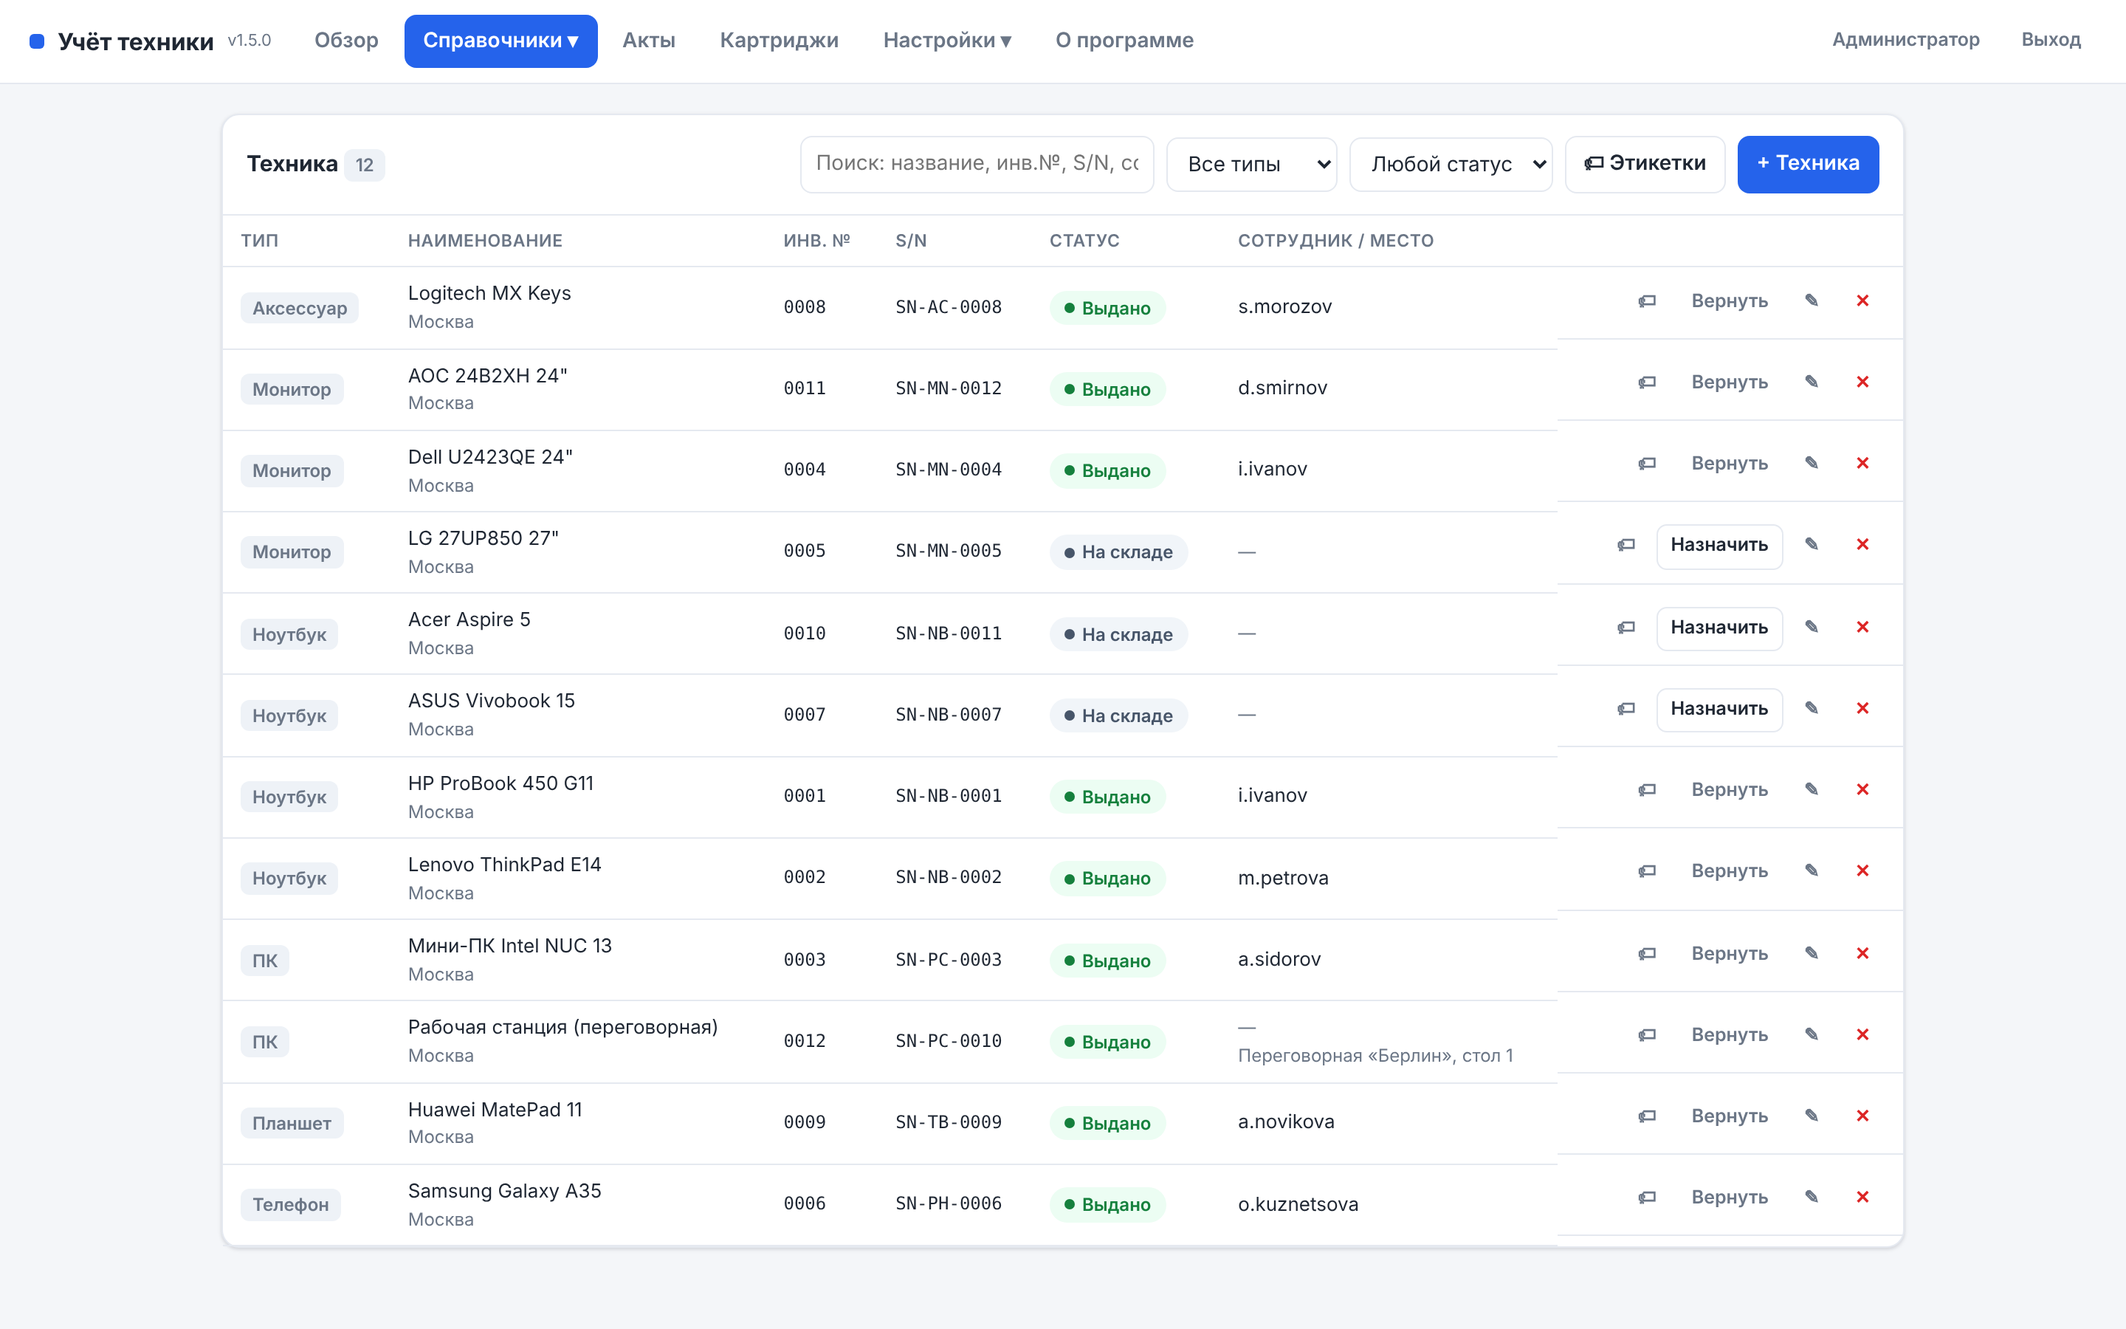
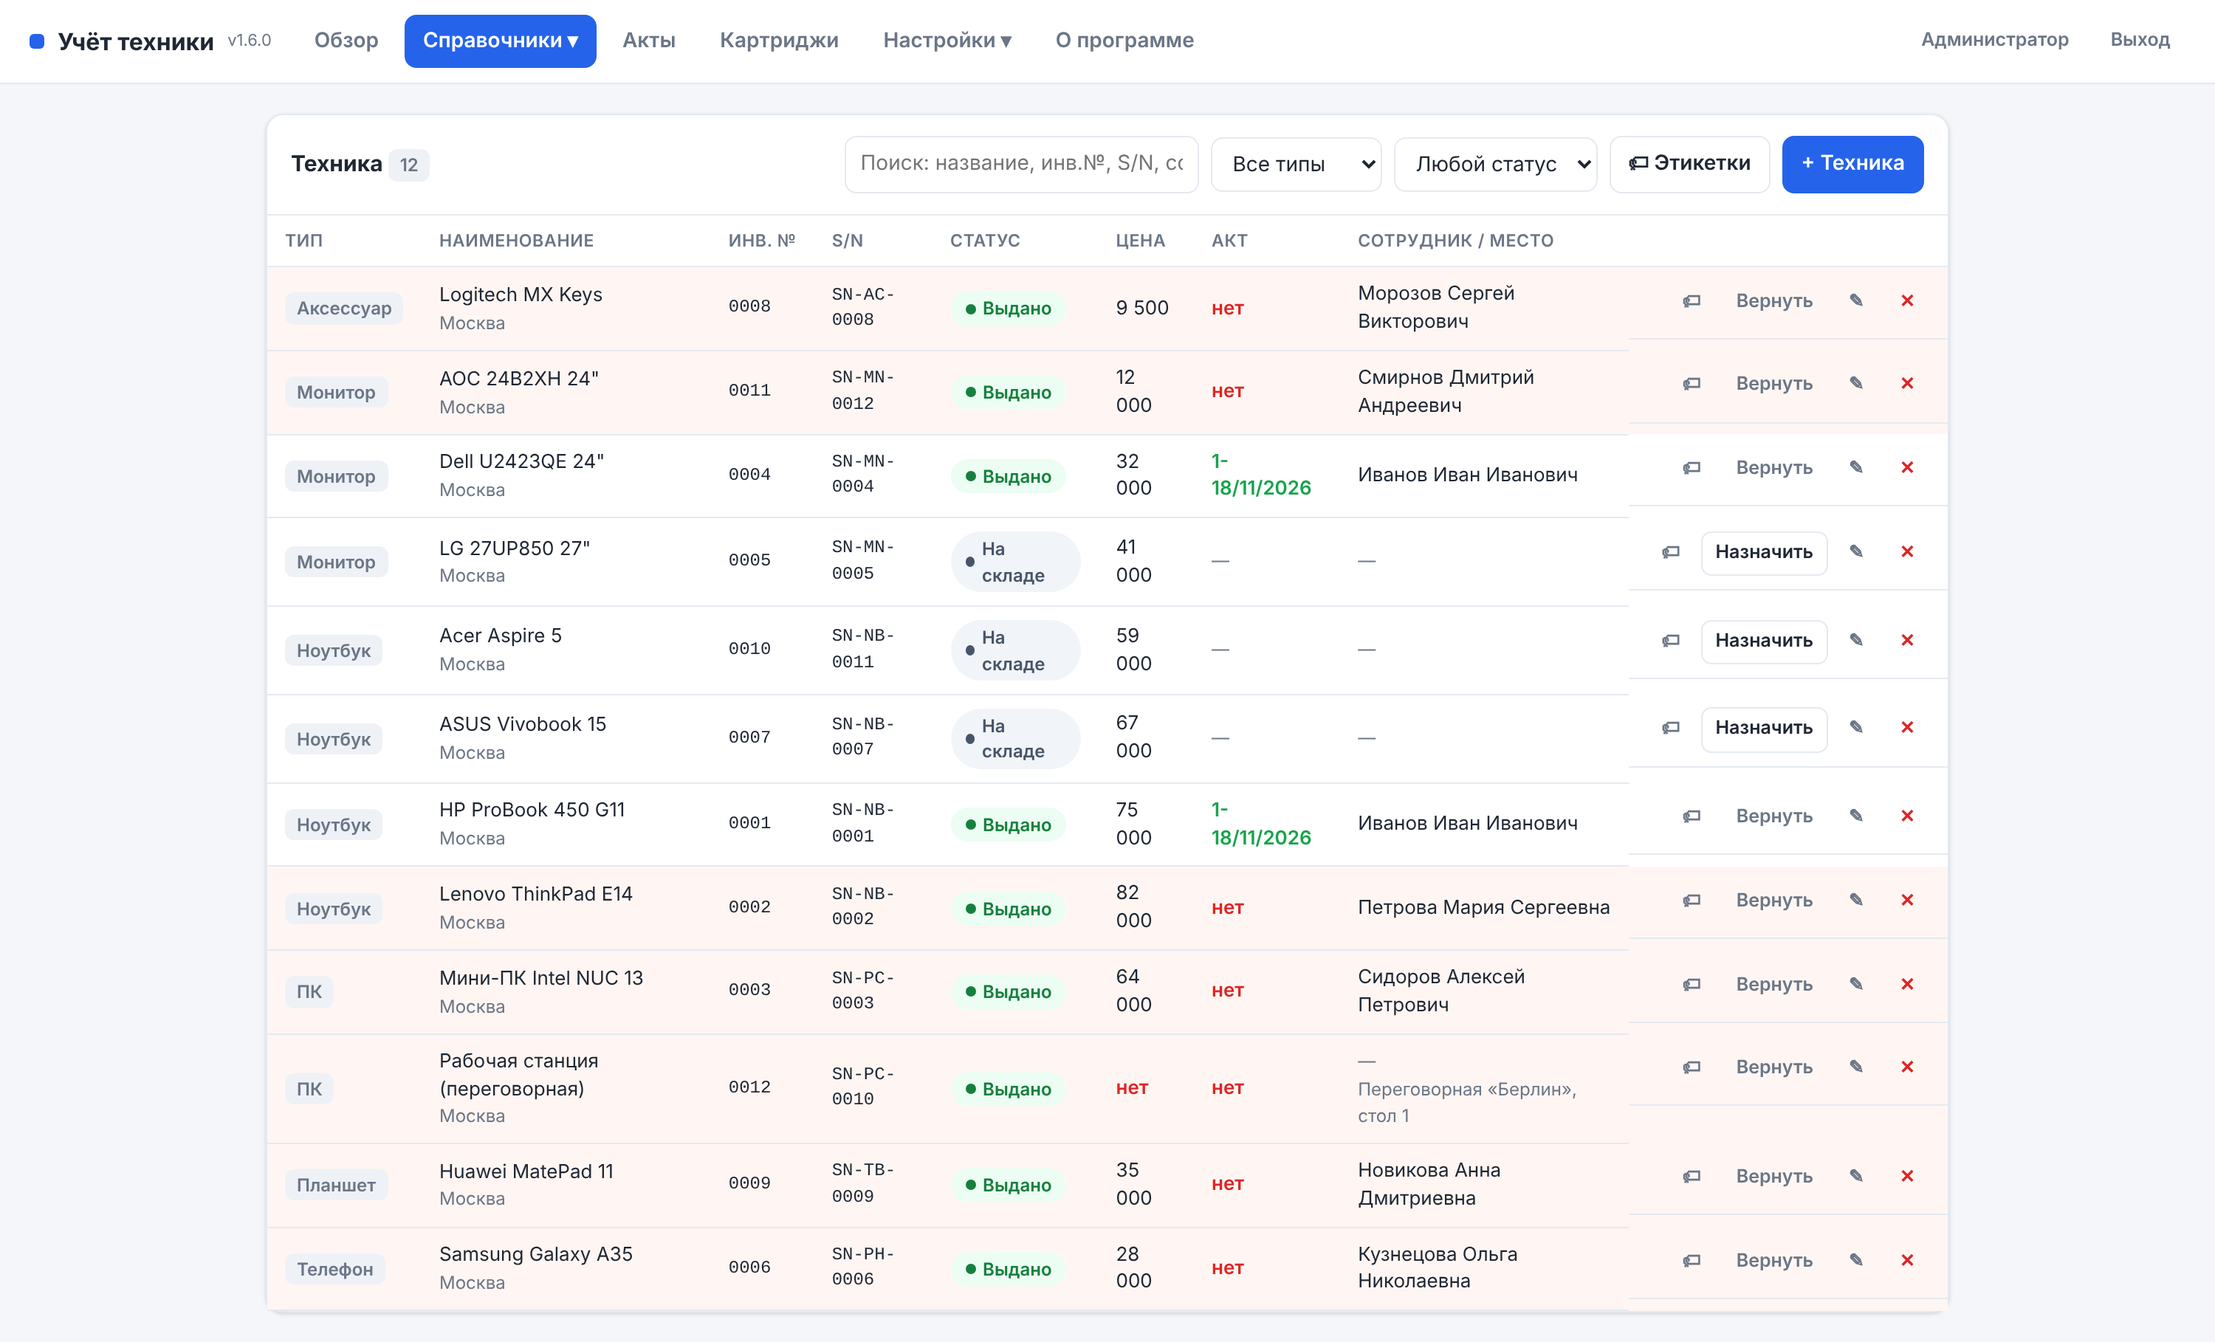
v1.6.0: цена и акт в списке техники, дата и номер акта
- в списке техники колонки «Цена» и «Акт» с красной подсветкой при отсутствии
  (строка подсвечивается, если нет цены или нет акта выдачи у выданной техники);
- связь акта с техникой по id позиции (для отметки «есть акт»);
- при создании акта выбирается дата (в т.ч. при выдаче с актом);
- номер акта в формате X-дд/мм/гггг (в списке, печати и .docx);
- демо-seed: исправлена привязка техники к сотрудникам (ФИО вместо логина);
- обновлены скриншоты в README.

Claude-Session: https://claude.ai/code/session_01253SzRbU9LchamaQdn1pgm

diff --git a/app/static/index.html b/app/static/index.html
@@ -397,20 +397,27 @@ function viewEquip(){
       </div>
     </div>
     <div class="tbl-scroll"><table>
-      <thead><tr><th>Тип</th><th>Наименование</th><th>Инв. №</th><th class="hide-sm">S/N</th><th>Статус</th><th>Сотрудник / место</th><th></th></tr></thead>
-      <tbody>${list.map(rowEquip).join('')||'<tr><td colspan="7" class="empty">Ничего не найдено</td></tr>'}</tbody>
+      <thead><tr><th>Тип</th><th>Наименование</th><th>Инв. №</th><th class="hide-sm">S/N</th><th>Статус</th><th>Цена</th><th>Акт</th><th>Сотрудник / место</th><th></th></tr></thead>
+      <tbody>${list.map(rowEquip).join('')||'<tr><td colspan="9" class="empty">Ничего не найдено</td></tr>'}</tbody>
     </table></div>
   </div>`;
 }
 function rowEquip(e){
   const holder=holderLabel(e);
   const wp=(e.assignType!=='workplace'&&e.workplace)?`<div class="sub">${esc(e.workplace)}</div>`:'';
-  return `<tr>
+  const noCost=!e.cost, needAct=(e.status==='issued'&&!e.hasAct);
+  const priceCell=e.cost?esc(e.cost):'<span style="color:var(--red);font-weight:600">нет</span>';
+  const actCell=e.hasAct
+    ?`<span style="color:var(--ok);font-weight:600">${esc(e.actLabel)||'✓'}</span>`
+    :(e.status==='issued'?'<span style="color:var(--red);font-weight:600">нет</span>':'<span class="sub">—</span>');
+  return `<tr${(noCost||needAct)?' style="background:#fff6f3"':''}>
     <td><span class="tag">${esc(e.type)}</span></td>
     <td>${esc(e.name)}${e.innerName?`<div class="sub">${esc(e.innerName)}</div>`:''}${e.location?`<div class="sub">${esc(e.location)}</div>`:''}</td>
     <td class="mono">${esc(e.invno)||'—'}</td>
     <td class="mono hide-sm">${esc(e.serial)||'—'}</td>
     <td><span class="badge ${STATUS_CLS[e.status]}">${STATUS[e.status]}</span></td>
+    <td>${priceCell}</td>
+    <td>${actCell}</td>
     <td>${holder?esc(holder):'<span class="sub">—</span>'}${wp}</td>
     <td class="row-actions">
       <button class="btn sm ghost" data-act="label" data-id="${e.id}" title="Этикетка 15×50">🏷</button>
@@ -470,7 +477,7 @@ function viewActs(){
       <tbody>${list.map(a=>{
         const e=empById(a.empId);
         return `<tr>
-          <td><b>№ ${esc(a.no)}</b></td>
+          <td><b>№ ${esc(actNumber(a))}</b></td>
           <td>${esc(a.date)}</td>
           <td>${a.kind==='return'?'<span class="badge b-stock">Возврат</span>':'<span class="badge b-issued">Выдача</span>'}</td>
           <td>${esc(e?e.fullName:(a.empName||'—'))}</td>
@@ -1056,6 +1063,7 @@ function assignModal(id){
           <select id="i-emp" size="6" style="height:auto">${empOptionsHTML(e.empId,'')}</select></div>
         <div class="field"><label>Рабочее место (необязательно)</label><input id="i-wp" value="${esc(e.workplace)}" placeholder="Напр. Офис Москва, каб. 3 / удалённо"></div>
         <label class="checkitem" style="border:0;padding:0;margin-top:4px"><input type="checkbox" id="i-act" checked> <span>Сразу сформировать акт выдачи</span></label>
+        <div class="field" style="margin-top:8px"><label>Дата акта</label><input id="i-date" type="date" value="${todayISO()}"></div>
       </div>
       <div id="i-wp-box" class="hidden">
         <div class="field"><label>Рабочее место</label><input id="i-wp2" value="${esc(e.workplace)}" placeholder="Напр. Переговорная «Берлин», стол 2"></div>
@@ -1073,7 +1081,7 @@ function assignModal(id){
     try{
       let body;
       if(mode==='workplace'){const wp=$('#i-wp2').value.trim();if(!wp){toast('Укажите рабочее место');return;}body={mode,workplace:wp};}
-      else{const empId=$('#i-emp').value;if(!empId){toast('Выберите сотрудника');return;}body={mode,empId,workplace:$('#i-wp').value.trim(),makeAct:$('#i-act').checked};}
+      else{const empId=$('#i-emp').value;if(!empId){toast('Выберите сотрудника');return;}body={mode,empId,workplace:$('#i-wp').value.trim(),makeAct:$('#i-act').checked,date:$('#i-date').value};}
       const res=await api('POST','/api/equipment/'+id+'/issue',body);
       closeModal();await reload();if(res.act)printAct(res.act);
     }catch(e){errToast(e);}
@@ -1180,10 +1188,11 @@ function actModal(){
     <div class="modal-b">
       <div class="grid2">
         <div class="field"><label>Тип акта</label><select id="a-kind"><option value="issue">Выдача</option><option value="return">Возврат</option></select></div>
-        <div class="field"><label>Сотрудник</label>
-          <input id="a-emp-q" class="search" placeholder="Поиск: ФИО, логин…" style="width:100%;margin-bottom:6px">
-          <select id="a-emp" size="6" style="height:auto">${empOptionsHTML('','')}</select></div>
+        <div class="field"><label>Дата акта</label><input id="a-date" type="date" value="${todayISO()}"></div>
       </div>
+      <div class="field"><label>Сотрудник</label>
+        <input id="a-emp-q" class="search" placeholder="Поиск: ФИО, логин…" style="width:100%;margin-bottom:6px">
+        <select id="a-emp" size="6" style="height:auto">${empOptionsHTML('','')}</select></div>
       <div class="field"><label>Позиции</label><div id="a-items" class="checklist"><p class="hint" style="padding:12px">Выберите сотрудника.</p></div>
         <p class="hint">Для выдачи показывается техника на складе и уже закреплённая за сотрудником; для возврата — закреплённая за ним.</p></div>
     </div>
@@ -1200,7 +1209,7 @@ function actModal(){
     const empId=$('#a-emp').value;if(!empId){toast('Выберите сотрудника');return;}
     const ids=[...document.querySelectorAll('#a-items input:checked')].map(i=>i.value);
     if(!ids.length){toast('Отметьте хотя бы одну позицию');return;}
-    try{const act=await api('POST','/api/acts',{kind:$('#a-kind').value,empId,itemIds:ids});closeModal();view='acts';await reload();printAct(act);}catch(e){errToast(e);}
+    try{const act=await api('POST','/api/acts',{kind:$('#a-kind').value,empId,itemIds:ids,date:$('#a-date').value});closeModal();view='acts';await reload();printAct(act);}catch(e){errToast(e);}
   };
 }
 
@@ -1296,6 +1305,8 @@ function wipeModal(){
 }
 
 /* ===== print act (шаблон ИП — акт приёма-передачи материальных ценностей) ===== */
+function actNumber(a){return a.no+'-'+((a.date||'').replace(/\./g,'/'));}
+function todayISO(){const d=new Date();return d.getFullYear()+'-'+('0'+(d.getMonth()+1)).slice(-2)+'-'+('0'+d.getDate()).slice(-2);}
 function costNum(s){const d=(s||'').toString().replace(/[^0-9]/g,'');return d?parseInt(d,10):0;}
 function fmtMoney(n){return n.toLocaleString('ru-RU');}
 function printAct(a){
@@ -1326,7 +1337,7 @@ function printAct(a){
     </tr>`).join('');
   const html=`
     <div class="print-toolbar">
-      <span class="sp">Акт № ${esc(a.no)}${isReturn?' (возврат)':''} — предпросмотр</span>
+      <span class="sp">Акт № ${esc(actNumber(a))}${isReturn?' (возврат)':''} — предпросмотр</span>
       <button class="btn" onclick="window.print()">🖨 Печать / PDF</button>
       <button class="btn" onclick="window.location='/api/acts/${a.id}/docx'">⬇ Word (.docx)</button>
       <button class="btn" onclick="document.getElementById('printArea').hidden=true">Закрыть</button>
@@ -1337,7 +1348,7 @@ function printAct(a){
         ${org.address?`<div>${esc(org.address)}</div>`:''}
       </div>
       <div class="akt-title">
-        <div>Акт № ${esc(a.no)}</div>
+        <div>Акт № ${esc(actNumber(a))}</div>
         <div>приема-передачи</div>
         <div>материальных ценностей работнику${isReturn?' (возврат)':''}</div>
       </div>

diff --git a/app/main.py b/app/main.py
@@ -38,7 +38,7 @@ from sqlalchemy.dialects.postgresql import JSONB
 JSONType = JSON().with_variant(JSONB(), "postgresql")
 
 # ---------------------------------------------------------------- config
-APP_VERSION = "1.5.0"
+APP_VERSION = "1.6.0"
 
 # Разделы, доступ к которым можно выдавать обычным пользователям.
 GRANTABLE_SECTIONS = ["equip", "people", "acts", "cart", "sup", "tsd"]
@@ -699,12 +699,31 @@ def state(db: Session = Depends(get_db), u: User = Depends(current_user)):
                      for e in db.scalars(select(Employee)).all()]
     else:
         employees = []
+    # техника: помечаем, есть ли по единице акт выдачи (связь по id позиции акта, запасной — по инв.№)
+    if allow("equip"):
+        act_label = {}
+        for a in db.scalars(select(Act).where(Act.kind == "issue")).all():
+            lbl = act_number(a)
+            for it in (a.items or []):
+                if it.get("id"):
+                    act_label[("id", it["id"])] = lbl
+                if it.get("invno"):
+                    act_label[("inv", it["invno"])] = lbl
+        equipment_list = []
+        for e in db.scalars(select(Equipment)).all():
+            d = eq_dict(e)
+            lbl = act_label.get(("id", e.id)) or (act_label.get(("inv", e.invno)) if e.invno else None)
+            d["hasAct"] = bool(lbl)
+            d["actLabel"] = lbl or ""
+            equipment_list.append(d)
+    else:
+        equipment_list = []
     return {
         "version": APP_VERSION,
         "org": org.value if org else DEFAULT_ORG,
         "user": _user_info(u),
         "employees": employees,
-        "equipment": [eq_dict(e) for e in db.scalars(select(Equipment)).all()] if allow("equip") else [],
+        "equipment": equipment_list,
         "acts": [act_dict(a) for a in db.scalars(select(Act)).all()] if allow("acts") else [],
         "suppliers": [supplier_dict(s) for s in db.scalars(select(Supplier)).all()] if (allow("sup") or allow("equip")) else [],
         "tsd": [tsd_dict(t) for t in db.scalars(select(Tsd)).all()] if allow("tsd") else [],
@@ -1098,10 +1117,22 @@ def _next_inv(db: Session) -> str:
     db.add(seq)
     return "%04d" % n
 
-def _make_act(db: Session, kind: str, emp: Employee, items: List[Equipment], who: str) -> Act:
-    a = Act(no=_next_act_no(db), kind=kind, date=datetime.date.today().strftime("%d.%m.%Y"),
+def _norm_date(s):
+    s = (s or "").strip()
+    m = re.fullmatch(r"(\d{4})-(\d{2})-(\d{2})", s)      # yyyy-mm-dd (из <input type=date>)
+    if m:
+        return f"{m.group(3)}.{m.group(2)}.{m.group(1)}"
+    if re.fullmatch(r"\d{2}\.\d{2}\.\d{4}", s):          # уже dd.mm.yyyy
+        return s
+    return None
+
+def act_number(a) -> str:
+    return f"{a.no}-" + (a.date or "").replace(".", "/")  # X-дд/мм/гггг
+
+def _make_act(db: Session, kind: str, emp: Employee, items: List[Equipment], who: str, date: str = None) -> Act:
+    a = Act(no=_next_act_no(db), kind=kind, date=_norm_date(date) or datetime.date.today().strftime("%d.%m.%Y"),
             emp_id=emp.id if emp else None, emp_name=emp.full_name if emp else "",
-            items=[{"name": i.name, "type": i.type, "invno": i.invno, "serial": i.serial,
+            items=[{"id": i.id, "name": i.name, "type": i.type, "invno": i.invno, "serial": i.serial,
                     "workplace": i.workplace, "cost": i.cost} for i in items], created_by=who)
     db.add(a)
     return a
@@ -1125,7 +1156,7 @@ def eq_issue(qid: str, body: dict, db: Session = Depends(get_db), u: User = Depe
         q.emp_id = emp.id; q.holder_text = ""; q.workplace = (body.get("workplace") or "").strip()
         q.assign_type = "employee"; q.status = "issued"
         if body.get("makeAct"):
-            act = _make_act(db, "issue", emp, [q], u.username)
+            act = _make_act(db, "issue", emp, [q], u.username, date=body.get("date"))
     db.commit()
     return {"equipment": eq_dict(q), "act": act_dict(act) if act else None}
 
@@ -1171,7 +1202,7 @@ def act_create(body: dict, db: Session = Depends(get_db), u: User = Depends(curr
             q.emp_id = emp.id; q.status = "issued"; q.holder_text = ""; q.assign_type = "employee"
         else:
             q.emp_id = None; q.status = "stock"; q.workplace = ""; q.assign_type = ""
-    act = _make_act(db, kind, emp, items, u.username)
+    act = _make_act(db, kind, emp, items, u.username, date=body.get("date"))
     db.commit()
     return act_dict(act)
 
@@ -1202,7 +1233,7 @@ def build_act_docx(org: dict, emp, act) -> bytes:
     p = doc.add_paragraph(); r = p.add_run(f"{org.get('name','')}" + (f", ИНН {org.get('inn','')}" if org.get("inn") else "")); r.bold = True
     if org.get("address"):
         doc.add_paragraph(org["address"])
-    for line in [f"Акт № {act.no}", "приема-передачи", "материальных ценностей работнику" + (" (возврат)" if is_ret else "")]:
+    for line in [f"Акт № {act_number(act)}", "приема-передачи", "материальных ценностей работнику" + (" (возврат)" if is_ret else "")]:
         tp = doc.add_paragraph(); tp.alignment = WD_ALIGN_PARAGRAPH.CENTER; tr = tp.add_run(line); tr.bold = True
     cp = doc.add_paragraph(); cp.add_run(f"г. {org.get('city','')}"); cp.add_run("\t\t\t\t"); cp.add_run(f"«{day}» {mon} {yr} г.")
 

diff --git a/README.md b/README.md
@@ -1,6 +1,6 @@
 # Учёт техники
 
-**Версия:** 1.5.0
+**Версия:** 1.6.0
 
 Небольшое веб-приложение для учёта ПК, ноутбуков, мониторов и прочей техники
 с привязкой к сотруднику и рабочему месту и печатью **акта приёма-передачи**.
